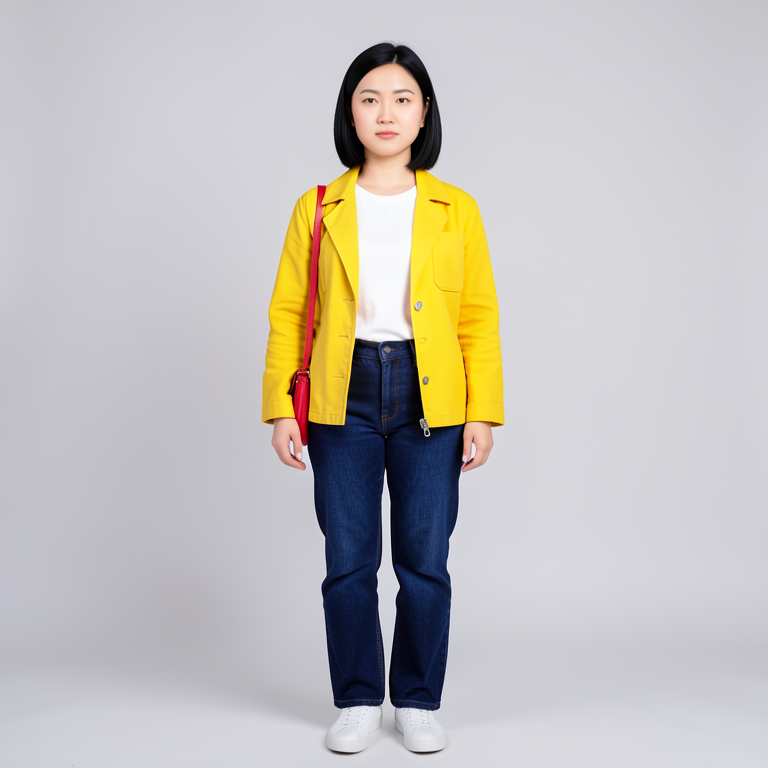
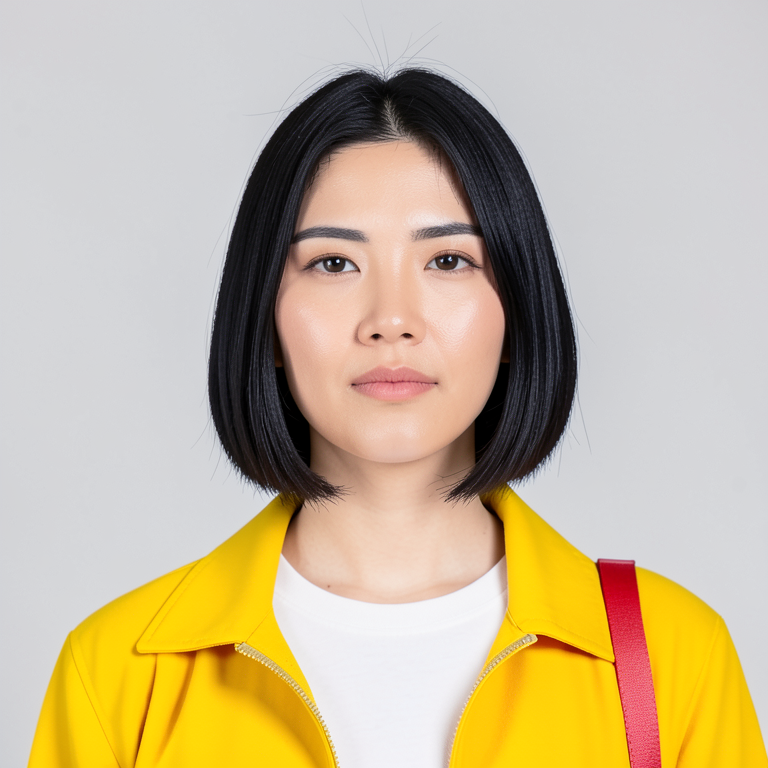
Fix the example face reference; generate it from the body reference
Investigation (real model, Mac Studio): checking whether small face
references hurt consistency revealed that examples/mina/face.png - the
"face" reference used by every demo and real-model test - was a full-body
shot (the text-only "head and shoulders portrait" prompt came back full
body), so the face was only ~60px and its hair/jacket drifted from
body.png. With a real headshot, the size test showed resolution barely
matters (768/256/96px gave nearly the same cut), so no resolution warning
was added; framing is what matters.

Fix:
- examples/mina/face.png is a real headshot generated with body.png as
  image 1, so identity and outfit match
- smoke-comfy.ts makes the body first and the face FROM it (verified from
  scratch on the real model: matching pair, full flow passes)
- drop-zone hints say what each reference must show; README documents
  the framing and resolution findings

diff --git a/scripts/smoke-comfy.ts b/scripts/smoke-comfy.ts
@@ -10,7 +10,7 @@ import sharp from 'sharp';
 import { ComfyBackend } from '../server/backends/comfy.ts';
 import { blendAlpha } from '../server/inpaint.ts';
 import { MODELS, PRESET_NAME } from '../server/workflow.ts';
-import { Store } from '../server/store.ts';
+import { Store, sha256 } from '../server/store.ts';
 import { createApp } from '../server/app.ts';
 import type { Project } from '../server/model.ts';
 
@@ -21,19 +21,22 @@ const health = await backend.health();
 if (!health.ok) throw new Error(health.detail + (health.missingModels ? `: ${health.missingModels.join(', ')}` : ''));
 
 const timings: Record<string, number | string> = {};
-async function t2i(name: string, prompt: string, width: number, height: number) {
+async function t2i(name: string, prompt: string, width: number, height: number, refs: Buffer[] = []) {
   const existing = await readFile(join(out, `${name}.png`)).catch(() => null);
   if (existing) return existing;
   const t0 = Date.now();
-  const r = await backend.run({ kind: 'generate', prompt, references: [], seed: 20261012, width, height, label: `smoke_${name}` });
+  const references = refs.map((b) => ({ role: 'body', sha256: sha256(b), bytes: b, megapixels: 1 }));
+  const r = await backend.run({ kind: 'generate', prompt, references, seed: 20261012, width, height, label: `smoke_${name}` });
   timings[`ref:${name}${r.coldStart ? ' (cold)' : ''}`] = Date.now() - t0;
   await writeFile(join(out, `${name}.png`), r.image);
   return r.image;
 }
 
 const look = 'a woman in her late 20s with short straight black hair, wearing a bright yellow jacket over a white t-shirt, dark blue jeans, white sneakers, carrying a small red shoulder bag';
-const face = await t2i('ref-face', `Character reference photo: head and shoulders portrait, facing the camera, neutral expression, ${look}. Plain light grey studio background, soft even lighting.`, 768, 768);
 const body = await t2i('ref-body', `Character reference photo: full body, standing straight, facing the camera, head to toe visible, ${look}. Plain light grey studio background.`, 640, 1024);
+// The face reference is made FROM the body reference (image 1): a text-only "portrait" prompt tended to come back
+// full-body, and two independent generations drift apart in hair and outfit.
+const face = await t2i('ref-face', `Close-up head-and-shoulders portrait of the exact same person as in image 1, maintaining exact likeness of the face and hair, wearing the same clothes. The face fills the upper half of the frame, looking straight at the camera with a neutral expression. Plain light grey studio background, soft even lighting. Style: realistic photo.`, 768, 768, [body]);
 
 const store = new Store(await mkdtemp(join(tmpdir(), 'cb-smoke-')));
 const { server, runner } = createApp(store, backend, resolve(import.meta.dirname, '../web'));

diff --git a/web/index.html b/web/index.html
@@ -47,13 +47,13 @@
           <input type="file" accept="image/png,image/jpeg,image/webp" hidden>
           <span class="drop-label"><b>1</b> 얼굴·머리</span>
           <img alt="">
-          <span class="drop-hint">정면 얼굴 사진을<br>끌어 놓거나 클릭</span>
+          <span class="drop-hint">얼굴이 화면의 절반쯤 차는<br>정면 사진 (전신 사진 X)</span>
         </label>
         <label class="drop" data-slot="body">
           <input type="file" accept="image/png,image/jpeg,image/webp" hidden>
           <span class="drop-label"><b>2</b> 의상·전신</span>
           <img alt="">
-          <span class="drop-hint">전신 사진을<br>끌어 놓거나 클릭</span>
+          <span class="drop-hint">머리부터 발끝까지 보이는<br>전신 사진</span>
         </label>
       </div>
       <form id="traits" class="traits" autocomplete="off">

diff --git a/examples/mina/traits.md b/examples/mina/traits.md
@@ -1,6 +1,6 @@
 # 예제 캐릭터: Mina
 
-`face.png`, `body.png`는 FLUX.2 [klein] 4B로 텍스트만 넣어 만든 가상 인물입니다(`npm run smoke:comfy`가 만든 결과). 실존 인물이 아닙니다.
+`body.png`는 FLUX.2 [klein] 4B에 텍스트만 넣어 만든 가상 인물이고, `face.png`는 그 `body.png`를 참조로 넣어 만든 얼굴 클로즈업입니다. 실존 인물이 아닙니다. 얼굴 참조는 얼굴이 화면의 절반쯤 차야 합니다. 예전 `face.png`는 전신 사진이라 얼굴이 약 60px밖에 되지 않았습니다.
 
 | 항목 | 값 |
 |---|---|
